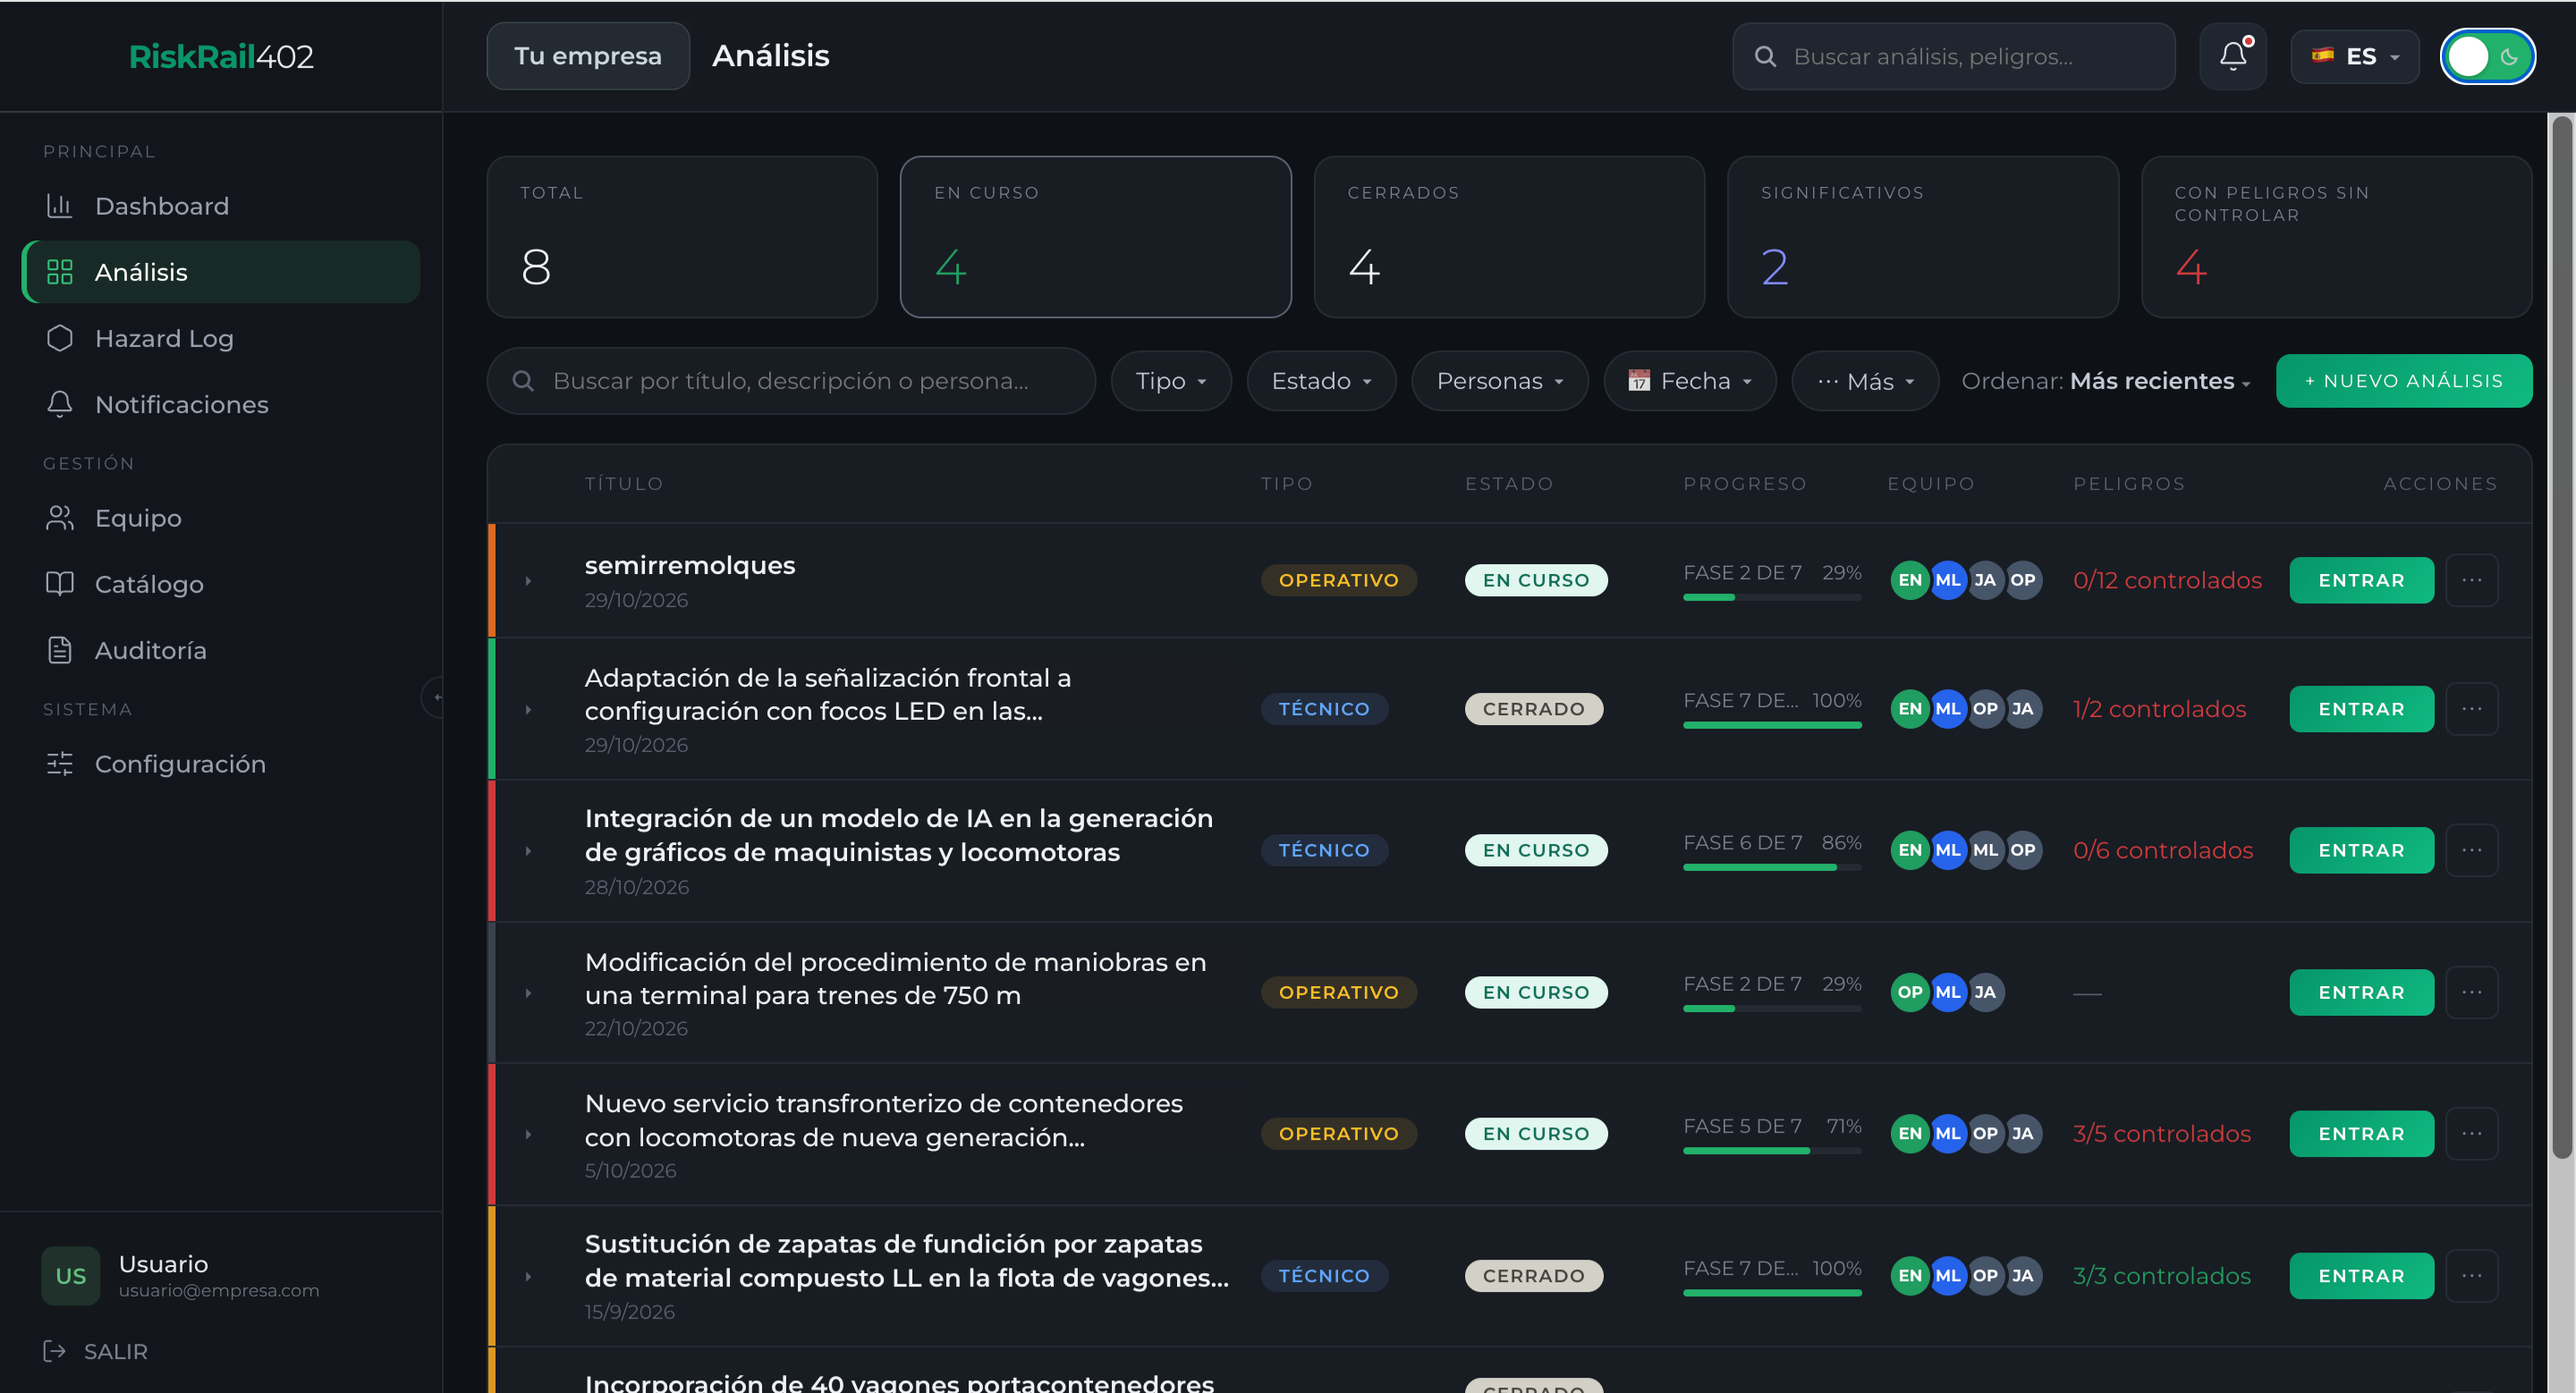
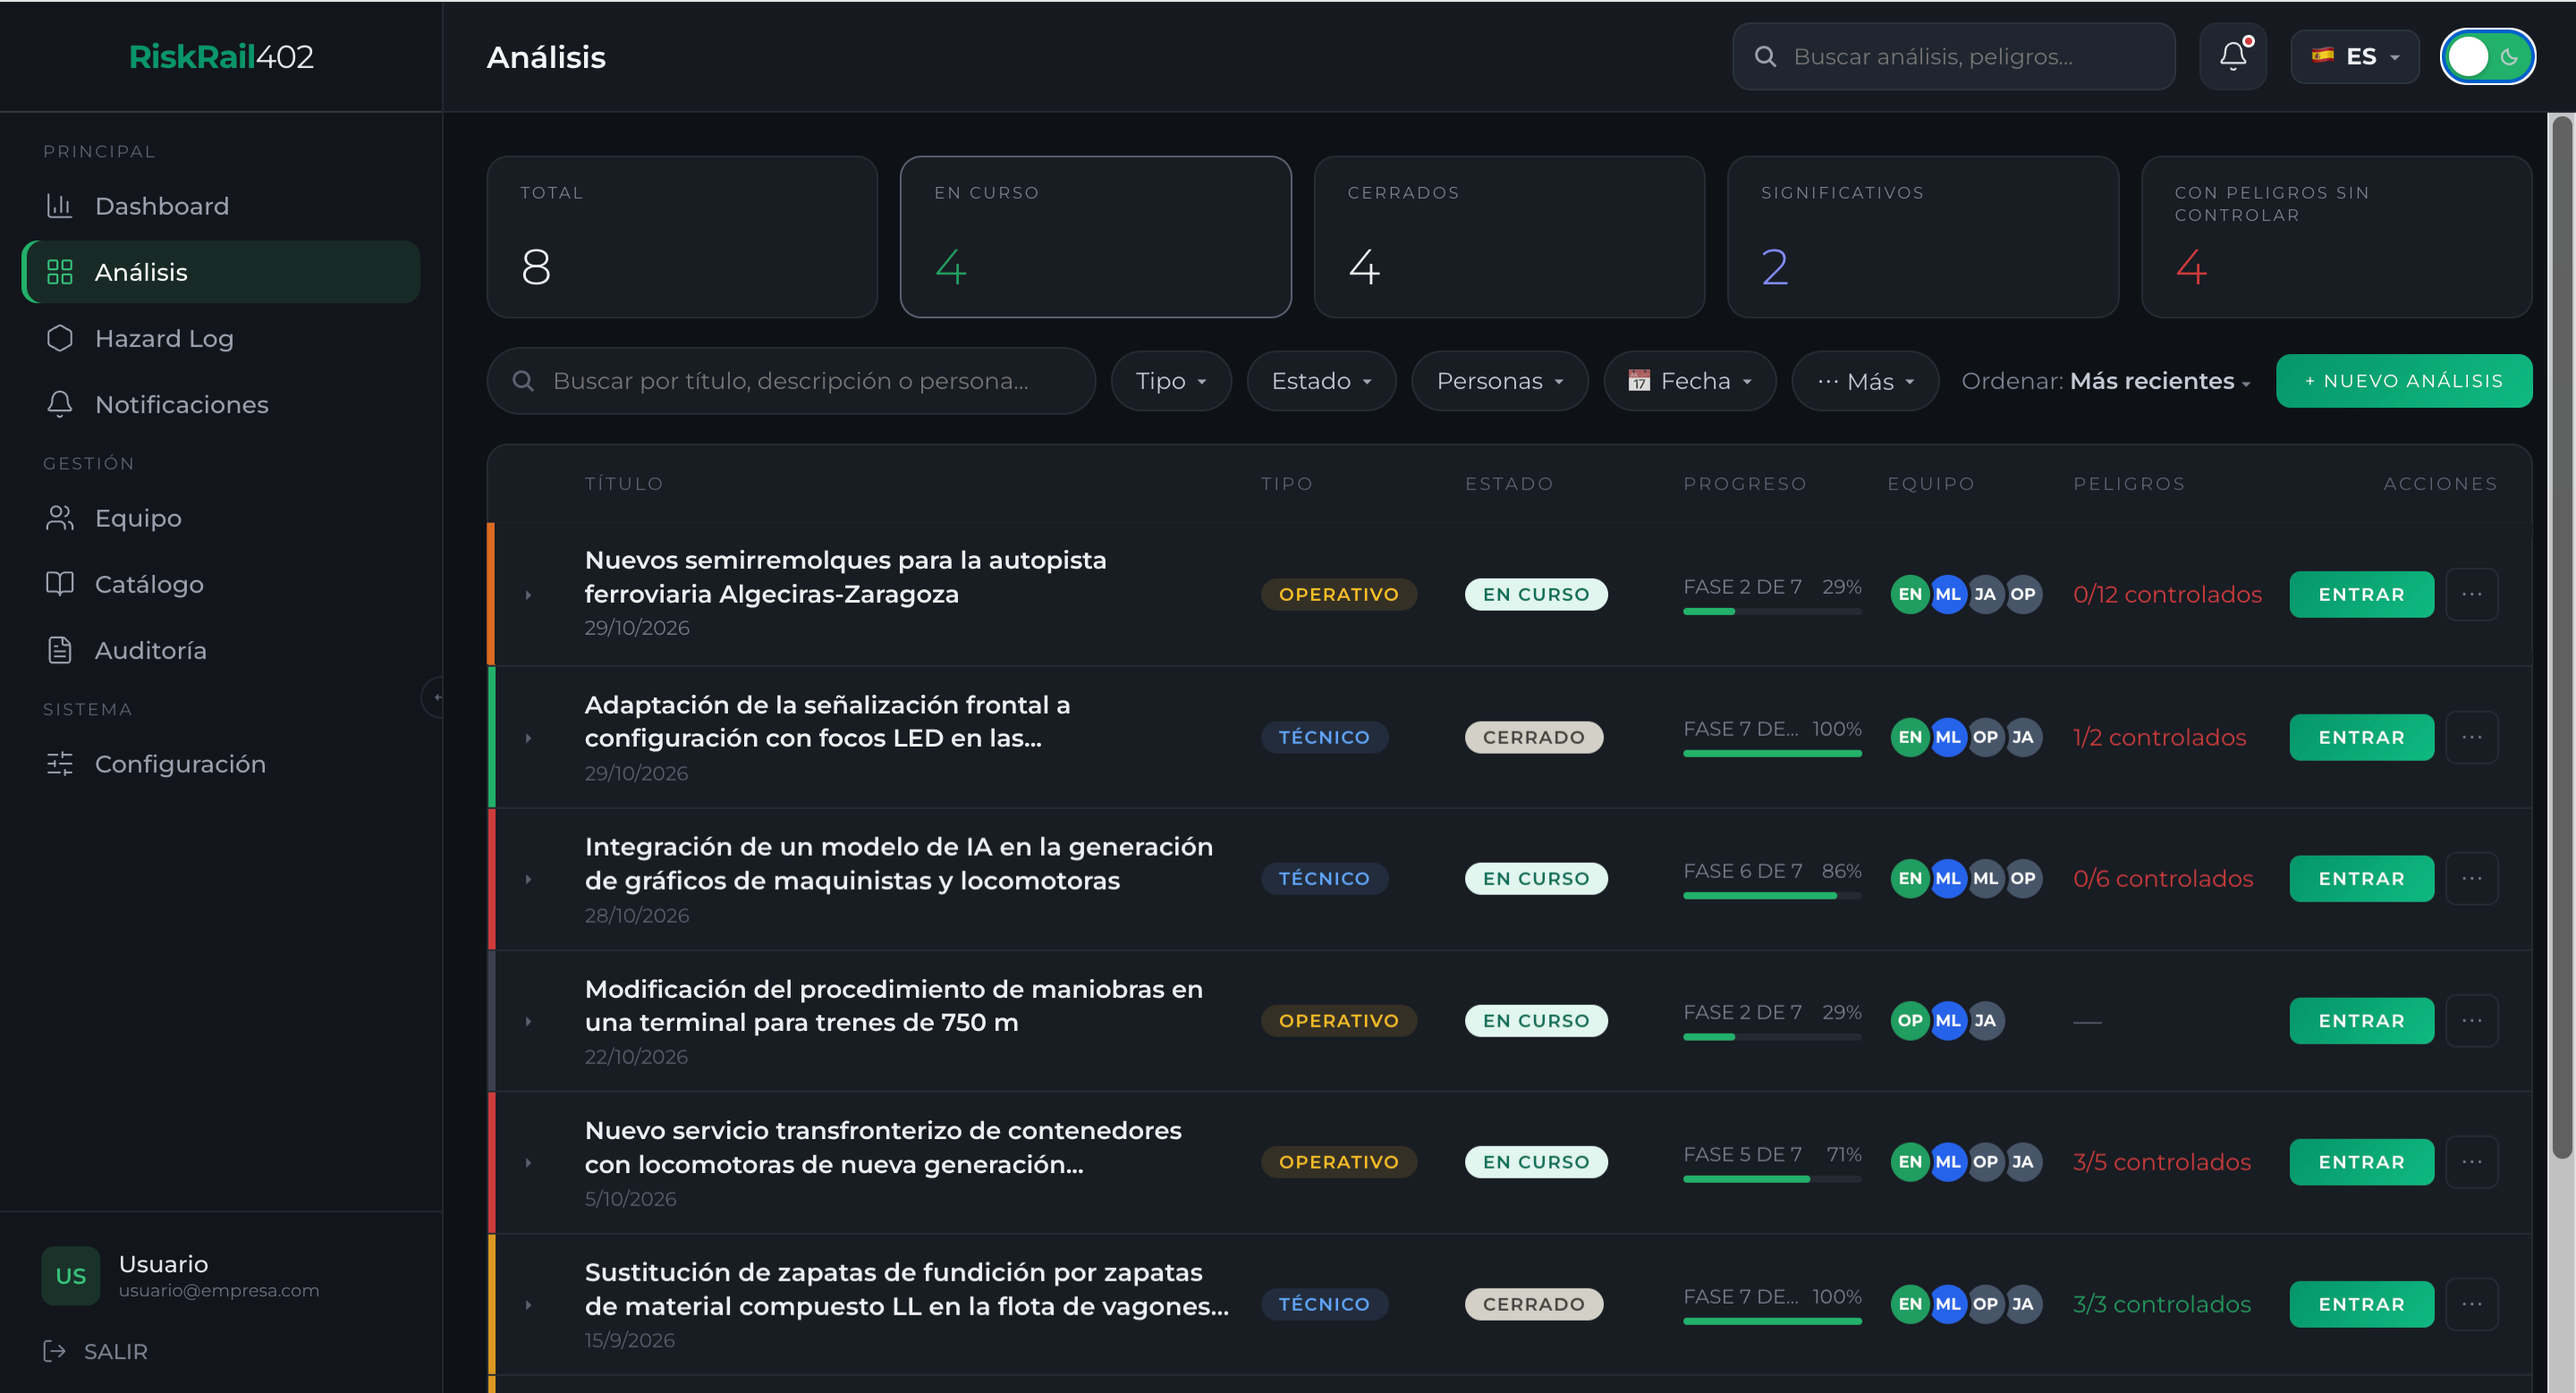
Zoom máximo ajustado a la pantalla y pantallas de RiskRail402 sin etiqueta de empresa

diff --git a/components/product/scroll-hero.tsx b/components/product/scroll-hero.tsx
@@ -2,7 +2,13 @@
 
 import Link from "next/link";
 import Image from "next/image";
-import { useRef, useState, type KeyboardEvent, type ReactNode } from "react";
+import {
+  useEffect,
+  useRef,
+  useState,
+  type KeyboardEvent,
+  type ReactNode,
+} from "react";
 import { ChevronLeft, ChevronRight } from "lucide-react";
 
 type Cta = { label: string; href: string };
@@ -155,6 +161,44 @@ export function ScrollHero({
   bgDecoration?: ReactNode;
   children?: ReactNode;
 }) {
+  const stageRef = useRef<HTMLDivElement>(null);
+  const frameRef = useRef<HTMLDivElement>(null);
+
+  // At max zoom the frame must fit between the navbar and the bottom of the
+  // visible stage, with a 24px margin each side. That depends on the frame's
+  // real height (title bar + image at its natural ratio), so it's measured
+  // here and handed to the zoom keyframe as CSS variables.
+  useEffect(() => {
+    const stage = stageRef.current;
+    const frame = frameRef.current;
+    if (!stage || !frame) return;
+
+    const MAX_SCALE = 1.12;
+    const MARGIN = 24;
+
+    function fit() {
+      if (!stage || !frame) return;
+      const frameHeight = frame.offsetHeight;
+      if (frameHeight === 0) return;
+      const navHeight = document.querySelector("header")?.getBoundingClientRect().height ?? 0;
+      const visibleBottom = Math.min(window.innerHeight, stage.offsetHeight);
+      const available = visibleBottom - navHeight - MARGIN * 2;
+      const scale = Math.min(MAX_SCALE, available / frameHeight);
+      const finalTop = navHeight + (visibleBottom - navHeight - scale * frameHeight) / 2;
+      frame.style.setProperty("--fr-scale-end", scale.toFixed(4));
+      frame.style.setProperty("--fr-ty-end", `${(finalTop - frame.offsetTop).toFixed(1)}px`);
+    }
+
+    fit();
+    const observer = new ResizeObserver(fit);
+    observer.observe(frame);
+    window.addEventListener("resize", fit);
+    return () => {
+      observer.disconnect();
+      window.removeEventListener("resize", fit);
+    };
+  }, []);
+
   return (
     <section className="ph-heroscroll relative">
       <style>{`
@@ -212,7 +256,7 @@ export function ScrollHero({
         }
         @keyframes ph-fr-anim {
           from { transform: translateX(-50%) translateY(0) scale(0.8); }
-          to { transform: translateX(-50%) translateY(-470px) scale(1.12); }
+          to { transform: translateX(-50%) translateY(var(--fr-ty-end, -470px)) scale(var(--fr-scale-end, 1.12)); }
         }
 
         @media (prefers-reduced-motion: reduce), (max-width: 767px) {
@@ -253,7 +297,7 @@ export function ScrollHero({
         }
       `}</style>
 
-      <div className="ph-stage">
+      <div ref={stageRef} className="ph-stage">
         <div
           aria-hidden="true"
           className="pointer-events-none absolute inset-0"
@@ -293,7 +337,7 @@ export function ScrollHero({
           </div>
         </div>
 
-        <div className="ph-fr">
+        <div ref={frameRef} className="ph-fr">
           <div className="overflow-hidden rounded-[20px] border border-[rgba(157,176,164,0.25)] bg-[#09100B] shadow-[0_40px_120px_-30px_rgba(34,197,94,0.35)]">
             <div className="flex h-[42px] items-center gap-2 border-b border-[rgba(157,176,164,0.2)] bg-black/30 px-4">
               <span className="h-2.5 w-2.5 rounded-full bg-[rgba(157,176,164,0.3)]" />
